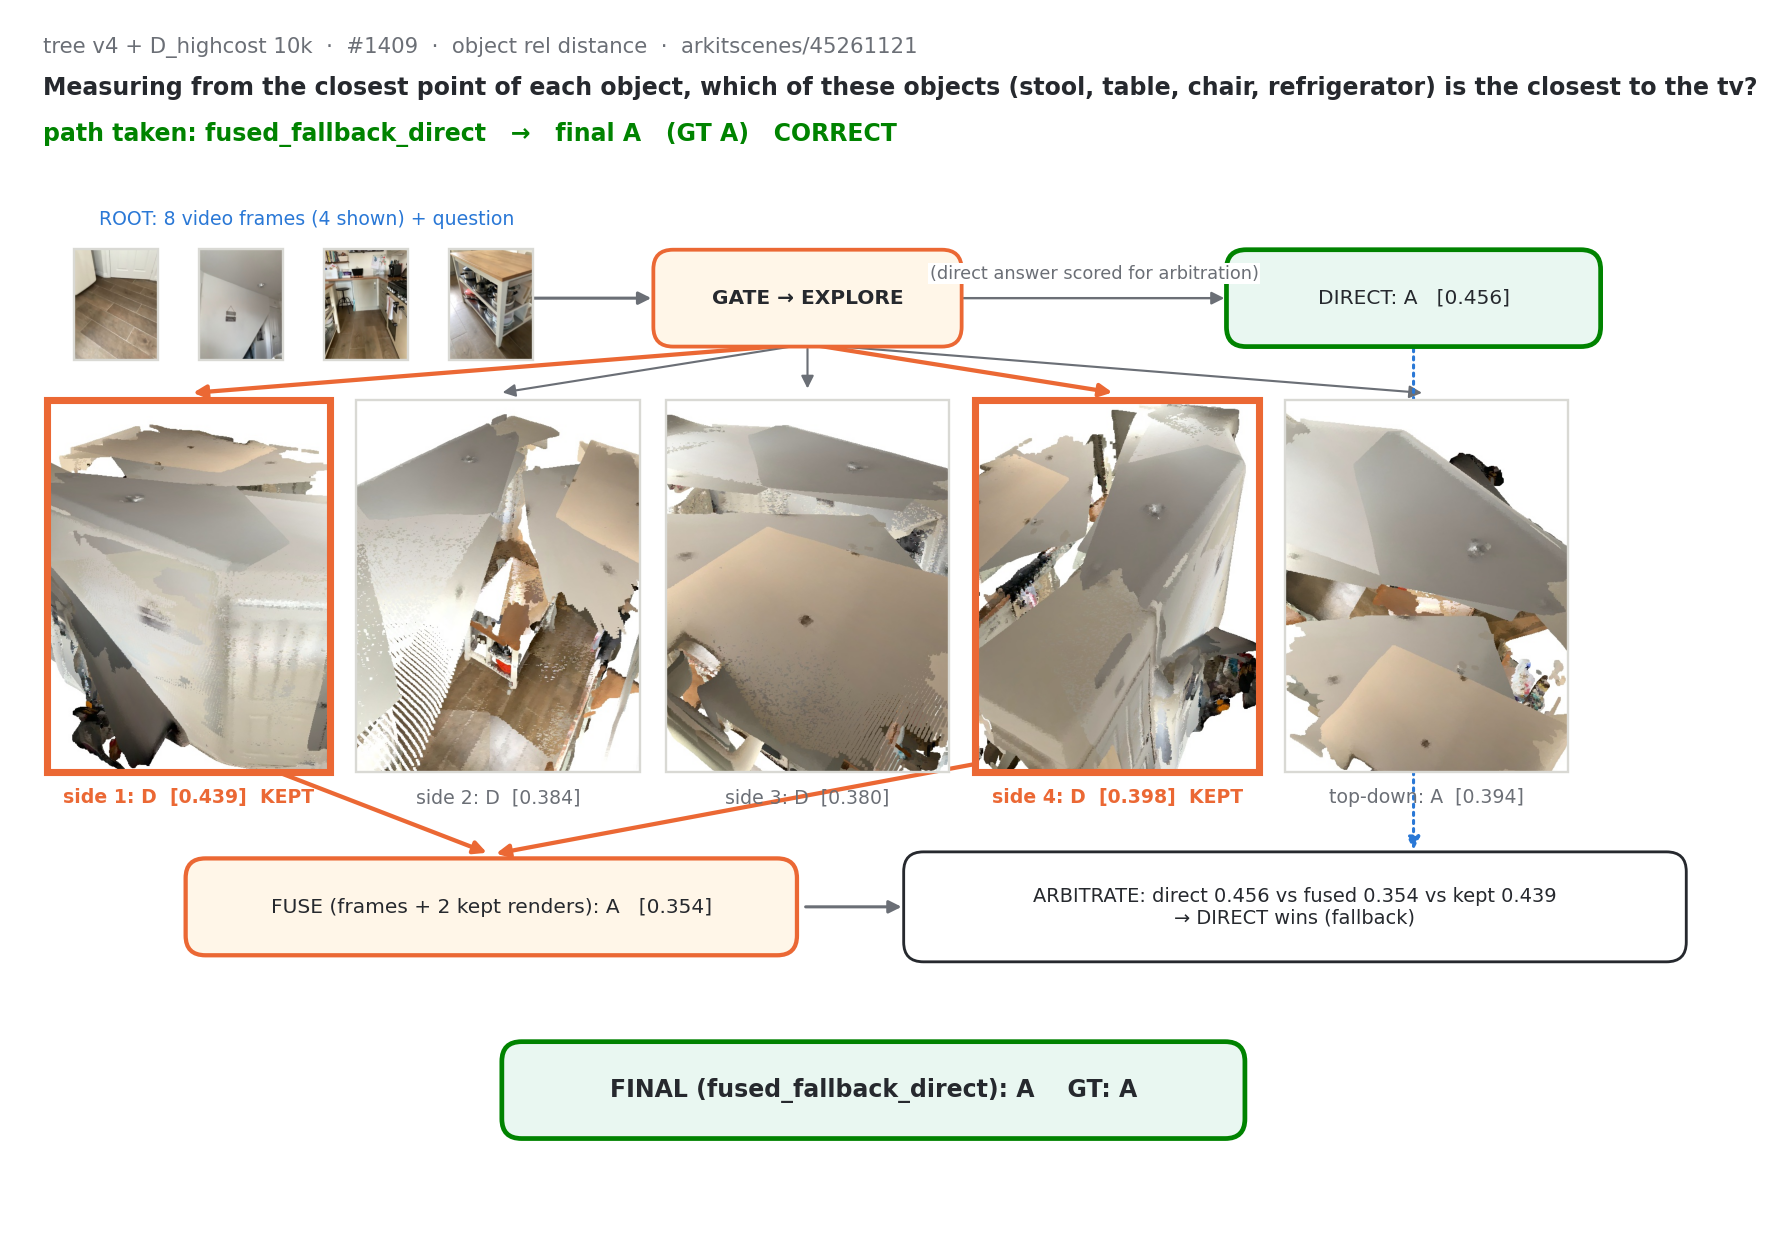
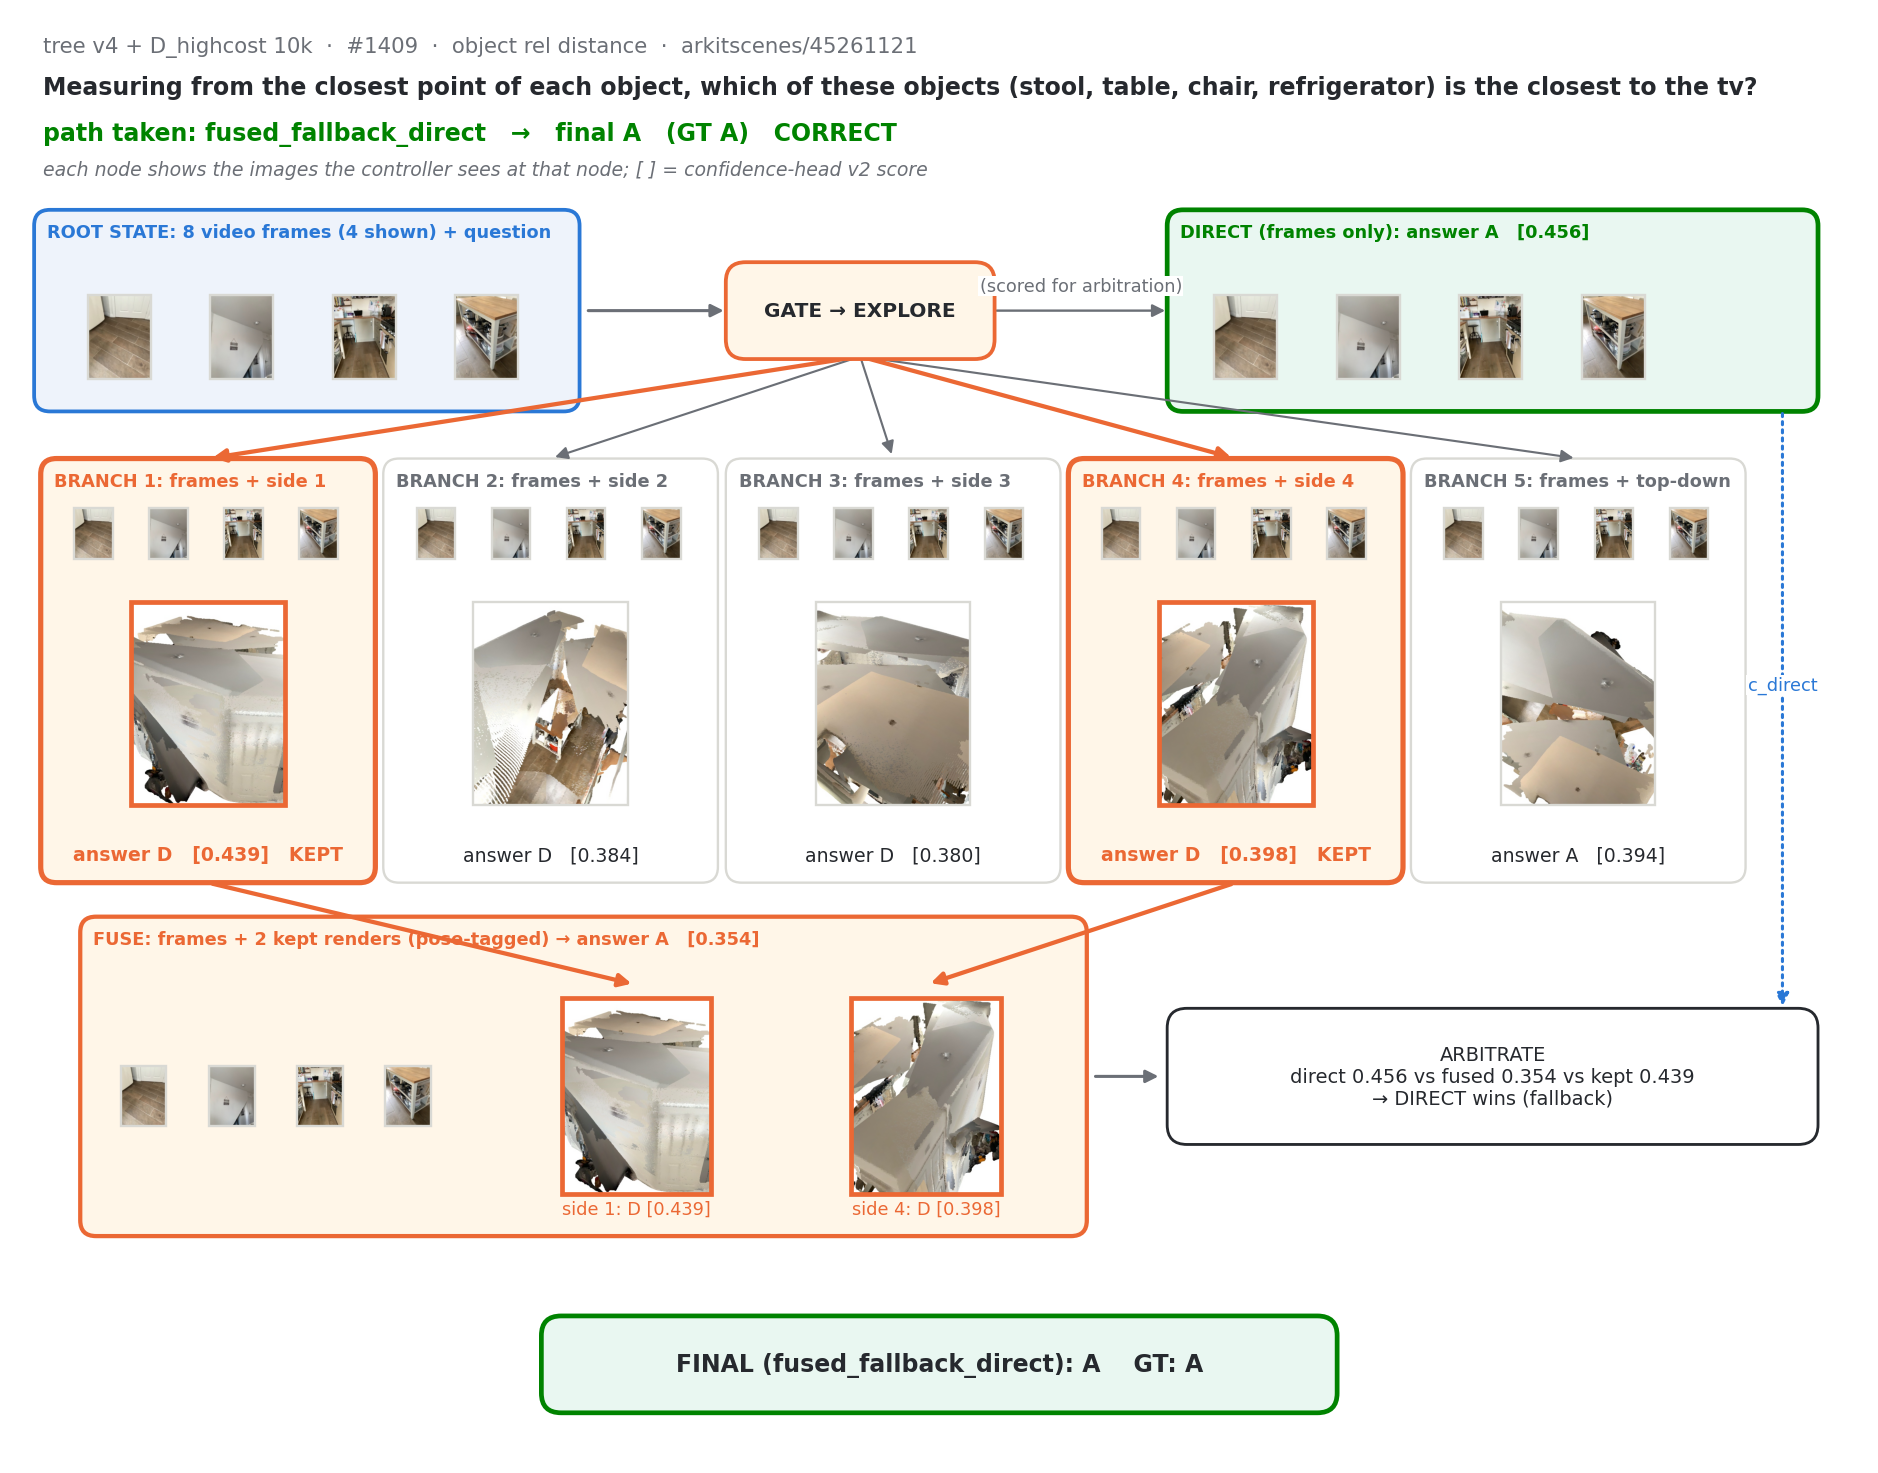
Tree diagrams: image-bearing nodes (root frames, branch frames+render, fuse frames+kept renders)

diff --git a/scripts/tree_diagram.py b/scripts/tree_diagram.py
@@ -63,43 +63,65 @@ def img(ax, path, cx, cy, w, alpha=1.0, ec=GRID, lw=1, max_h=None):
     ax.add_patch(plt.Rectangle((cx - w/2, cy - h/2), w, h, fc="none", ec=ec, lw=lw, zorder=4))
     return h
 
+def strip(ax, TR, qid, x0, y, n=4, w=0.42, gap=0.05, alpha=1.0):
+    """Row of n frame thumbnails starting at x0 (left edge), vertically centred on y. Returns width."""
+    for i in range(n): img(ax, f"{TR}/{qid}_frame{i}.jpg", x0 + w/2 + i*(w+gap), y, w, max_h=w*0.75, alpha=alpha)
+    return n*(w+gap) - gap
+
+def card(ax, x, y, w, h, title, fc="white", ec=GRID, lw=1.2):
+    ax.add_patch(FancyBboxPatch((x - w/2, y - h/2), w, h, boxstyle="round,pad=0.02,rounding_size=0.12", fc=fc, ec=ec, lw=lw, zorder=1))
+    ax.text(x - w/2 + 0.08, y + h/2 - 0.08, title, fontsize=7.5, color=ec if ec != GRID else MUT, va="top", ha="left", fontweight="bold", zorder=5)
+
 def instance(t, tag, label):
     TR = f"{R}/results/traces/{tag}"; qid = t["id"]; mode = t["mode"]; executed = mode != "direct"
-    fig, ax = plt.subplots(figsize=(13, 9.2), dpi=170); ax.set_xlim(0, 13); ax.set_ylim(0, 9.2); ax.axis("off")
+    fig, ax = plt.subplots(figsize=(14, 11), dpi=170); ax.set_xlim(0, 14); ax.set_ylim(0, 11); ax.axis("off")
     ok = t["score"] > .5
-    ax.text(0.2, 9.05, f"{label}  ·  #{qid}  ·  {t['qtype'].replace('_',' ')}  ·  {t['scene']}", fontsize=9, color=MUT, va="top")
-    ax.text(0.2, 8.75, textwrap.fill(t["question"].split("\n")[0], 150), fontsize=10, fontweight="bold", va="top")
-    ax.text(0.2, 8.4, f"path taken: {mode}   →   final {t['final'].strip()}   (GT {t['gt']})   {'CORRECT' if ok else 'WRONG'}", fontsize=10, color=OK if ok else BAD, fontweight="bold", va="top")
-    # root frames (data coords)
-    for i in range(4): img(ax, f"{TR}/{qid}_frame{i}.jpg", 0.75 + i*0.95, 7.0, 0.9, max_h=0.85)
-    ax.text(2.2, 7.65, "ROOT: 8 video frames (4 shown) + question", fontsize=8, color=BLUE, ha="center", va="center")
-    d = t["direct"]; gate_yes = "YES" in t["gate"].upper()
-    box(ax, 6.0, 7.05, 2.3, 0.7, f"GATE → {t['gate']}", fc="#fff6e8", ec=ORANGE, lw=1.6, weight="bold")
-    arrow(ax, (3.7, 7.05), (4.85, 7.05))
-    dwin = mode in ("direct", "fused_fallback_direct")
-    box(ax, 10.6, 7.05, 2.8, 0.7, f"DIRECT: {d['pred'].strip()}   [{d['conf']:.3f}]", fc="#e9f7f1" if dwin else "white", ec=OK if dwin else BLUE, lw=2 if dwin else 1.2)
-    arrow(ax, (7.15, 7.05), (9.2, 7.05), color=OK if gate_yes else MUT, lw=2 if gate_yes else 1, label="YES: answer directly" if gate_yes else "(direct answer scored for arbitration)")
-    xs = [1.3, 3.65, 6.0, 8.35, 10.7]; W = 2.15
-    for b in t["branches"]:
-        i = b["view"]; x = xs[i]; kept = executed and i in t["kept"]
-        h = img(ax, f"{TR}/{qid}_view{i}.jpg", x, 4.85, W, alpha=1 if executed else 0.3, ec=ORANGE if kept else GRID, lw=3 if kept else 1)
-        arrow(ax, (6.0, 6.7), (x, 4.85 + h/2 + 0.05), color=(ORANGE if kept else MUT), lw=(1.8 if kept else 0.9), dashed=not executed)
-        ax.text(x, 4.85 - h/2 - 0.12, f"{VIEW_NAMES[i]}: {b['pred'].strip()[:10]}  [{b['conf']:.3f}]" + ("  KEPT" if kept else ""), fontsize=8, ha="center", va="top", color=ORANGE if kept else MUT, fontweight="bold" if kept else "normal")
-    ybot = 4.85 - (W * 0.75) / 2 - 0.35
+    ax.text(0.2, 10.85, f"{label}  ·  #{qid}  ·  {t['qtype'].replace('_',' ')}  ·  {t['scene']}", fontsize=9, color=MUT, va="top")
+    ax.text(0.2, 10.55, textwrap.fill(t["question"].split("\n")[0], 160), fontsize=10, fontweight="bold", va="top")
+    ax.text(0.2, 10.2, f"path taken: {mode}   →   final {t['final'].strip()}   (GT {t['gt']})   {'CORRECT' if ok else 'WRONG'}", fontsize=10, color=OK if ok else BAD, fontweight="bold", va="top")
+    ax.text(0.2, 9.9, "each node shows the images the controller sees at that node; [ ] = confidence-head v2 score", fontsize=8, color=MUT, va="top", style="italic")
+    d = t["direct"]; gate_yes = "YES" in t["gate"].upper(); dwin = mode in ("direct", "fused_fallback_direct")
+    # ROOT card: 4 of 8 frames
+    card(ax, 2.2, 8.75, 4.1, 1.5, "ROOT STATE: 8 video frames (4 shown) + question", fc="#eef3fb", ec=BLUE, lw=1.6)
+    strip(ax, TR, qid, 0.35, 8.55, w=0.85, gap=0.08)
+    # GATE
+    box(ax, 6.4, 8.75, 2.0, 0.7, f"GATE → {t['gate']}", fc="#fff6e8", ec=ORANGE, lw=1.6, weight="bold")
+    arrow(ax, (4.3, 8.75), (5.4, 8.75))
+    # DIRECT card: frames only
+    card(ax, 11.2, 8.75, 4.9, 1.5, f"DIRECT (frames only): answer {d['pred'].strip()}   [{d['conf']:.3f}]", fc="#e9f7f1" if dwin else "white", ec=OK if dwin else BLUE, lw=2 if dwin else 1.2)
+    strip(ax, TR, qid, 8.9, 8.55, w=0.85, gap=0.08)
+    arrow(ax, (7.4, 8.75), (8.75, 8.75), color=OK if gate_yes else MUT, lw=2 if gate_yes else 1, label="YES: answer directly" if gate_yes else "(scored for arbitration)")
+    # BRANCH cards: frames strip + one render
+    xs = [1.45, 4.05, 6.65, 9.25, 11.85]; CW, CH = 2.5, 3.2; ytop = 7.6; yc = ytop - CH/2
+    for bch in t["branches"]:
+        i = bch["view"]; x = xs[i]; kept = executed and i in t["kept"]; al = 1 if executed else 0.3
+        card(ax, x, yc, CW, CH, f"BRANCH {i+1}: frames + {VIEW_NAMES[i]}", fc="#fff6e8" if kept else "white", ec=ORANGE if kept else GRID, lw=2.2 if kept else 1)
+        strip(ax, TR, qid, x - CW/2 + 0.12, ytop - 0.55, w=0.52, gap=0.05, alpha=al)
+        img(ax, f"{TR}/{qid}_view{i}.jpg", x, ytop - 1.85, CW - 0.3, alpha=al, ec=ORANGE if kept else GRID, lw=2 if kept else 1, max_h=1.55)
+        ax.text(x, ytop - CH + 0.12, f"answer {bch['pred'].strip()[:10]}   [{bch['conf']:.3f}]" + ("   KEPT" if kept else ""), fontsize=8, ha="center", va="bottom", color=ORANGE if kept else INK, fontweight="bold" if kept else "normal", zorder=5)
+        arrow(ax, (6.4, 8.4), (x, ytop + 0.02), color=(ORANGE if kept else MUT), lw=(1.8 if kept else 0.9), dashed=not executed)
+    ybot = ytop - CH
     if not executed:
-        ax.text(6.0, 2.6, "gate said YES → branches were NOT executed (shown faded for reference)", fontsize=9, color=MUT, ha="center", style="italic")
+        ax.text(7.0, 3.6, "gate said YES → branches were NOT executed (shown faded for reference)", fontsize=9, color=MUT, ha="center", style="italic")
     else:
         f = t["fuse"]; kc = [t["branches"][i]["conf"] for i in t["kept"]]; kp = {t["branches"][i]["pred"].strip() for i in t["kept"]}
         if mode == "branch_consensus":
-            box(ax, 6.0, 2.4, 7.0, 0.7, f"CONSENSUS: kept branches agree on '{list(kp)[0]}', conf {max(kc):.3f} > direct {d['conf']:.3f} → stop (fusion not executed)", fc="#e9f7f1", ec=OK, lw=2, fs=8.5)
-            for i in t["kept"]: arrow(ax, (xs[i], ybot), (6.0, 2.8), color=ORANGE, lw=1.8)
+            card(ax, 4.8, 2.9, 6.6, 2.4, f"CONSENSUS: kept branches agree on '{list(kp)[0]}', conf {max(kc):.3f} > direct {d['conf']:.3f} → stop, fusion NOT executed", fc="#e9f7f1", ec=OK, lw=2)
+            for j, i in enumerate(t["kept"]):
+                img(ax, f"{TR}/{qid}_view{i}.jpg", 3.3 + j*2.6, 2.75, 2.3, ec=ORANGE, lw=2, max_h=1.6)
+                ax.text(3.3 + j*2.6, 1.85, f"{VIEW_NAMES[i]}: {t['branches'][i]['pred'].strip()[:10]} [{t['branches'][i]['conf']:.3f}]", fontsize=7.5, ha="center", color=ORANGE)
+                arrow(ax, (xs[i], ybot - 0.02), (3.3 + j*2.6, 3.6), color=ORANGE, lw=1.8)
         else:
-            box(ax, 3.6, 2.4, 4.6, 0.7, f"FUSE (frames + 2 kept renders): {f['pred'].strip()}   [{f['conf']:.3f}]", fc="#fff6e8", ec=ORANGE, lw=1.8, fs=8.5)
-            for i in t["kept"]: arrow(ax, (xs[i], ybot), (3.6, 2.8), color=ORANGE, lw=1.8)
+            card(ax, 4.3, 2.9, 7.6, 2.4, f"FUSE: frames + 2 kept renders (pose-tagged) → answer {f['pred'].strip()}   [{f['conf']:.3f}]", fc="#fff6e8", ec=ORANGE, lw=1.8)
+            strip(ax, TR, qid, 0.65, 2.75, w=0.62, gap=0.05)
+            for j, i in enumerate(t["kept"]):
+                img(ax, f"{TR}/{qid}_view{i}.jpg", 4.7 + j*2.2, 2.75, 2.0, ec=ORANGE, lw=2, max_h=1.5)
+                ax.text(4.7 + j*2.2, 1.85, f"{VIEW_NAMES[i]}: {t['branches'][i]['pred'].strip()[:10]} [{t['branches'][i]['conf']:.3f}]", fontsize=7.5, ha="center", color=ORANGE)
+                arrow(ax, (xs[i], ybot - 0.02), (4.7 + j*2.2, 3.6), color=ORANGE, lw=1.8)
             win_direct = mode == "fused_fallback_direct"
-            box(ax, 9.7, 2.4, 5.9, 0.8, f"ARBITRATE: direct {d['conf']:.3f} vs fused {f['conf']:.3f} vs kept {max(kc):.3f}\n→ " + ("DIRECT wins (fallback)" if win_direct else "FUSED wins"), fc="white", ec=INK, lw=1.2, fs=8.2)
-            arrow(ax, (5.95, 2.4), (6.75, 2.4)); arrow(ax, (10.6, 6.7), (10.6, 2.8), color=BLUE, dashed=True)
-    box(ax, 6.5, 1.0, 5.6, 0.7, f"FINAL ({mode}): {t['final'].strip()}    GT: {t['gt']}", fc="#e9f7f1" if ok else "#fdecea", ec=OK if ok else BAD, lw=2, fs=10, weight="bold")
+            box(ax, 11.2, 2.9, 4.9, 1.0, f"ARBITRATE\ndirect {d['conf']:.3f} vs fused {f['conf']:.3f} vs kept {max(kc):.3f}\n→ " + ("DIRECT wins (fallback)" if win_direct else "FUSED wins"), fc="white", ec=INK, lw=1.2, fs=8.2)
+            arrow(ax, (8.15, 2.9), (8.7, 2.9)); arrow(ax, (13.4, 8.0), (13.4, 3.4), color=BLUE, dashed=True, label="c_direct", lpos=0.5)
+    box(ax, 7.0, 0.7, 6.0, 0.7, f"FINAL ({mode}): {t['final'].strip()}    GT: {t['gt']}", fc="#e9f7f1" if ok else "#fdecea", ec=OK if ok else BAD, lw=2, fs=10, weight="bold")
     fig.savefig(f"{FIG}/tree_{tag}_{qid}.png", bbox_inches="tight"); plt.close(fig)
 
 def main():

diff --git a/RESULTS.md b/RESULTS.md
@@ -439,7 +439,8 @@ SFT ladder, renderer sweep, and six per-trace montages — are in `figures/`
 **Tree diagrams (2026-08-27):** `figures/tree_schematic.png` draws the depth-1
 tree as a graph (gate → 5 render branches → keep-2 → consensus / fuse →
 arbitrate, with call counts); `figures/tree_d10k_{1129,2220,76,1409}.png`
-instantiate it with the real renders and head confidences for one example
+instantiate it with image-bearing nodes (each node shows the frames/renders the
+controller sees there) and head confidences for one example
 per mode (direct / branch_consensus / fused / fused_fallback_direct);
 `scripts/tree_diagram.py`.
 
